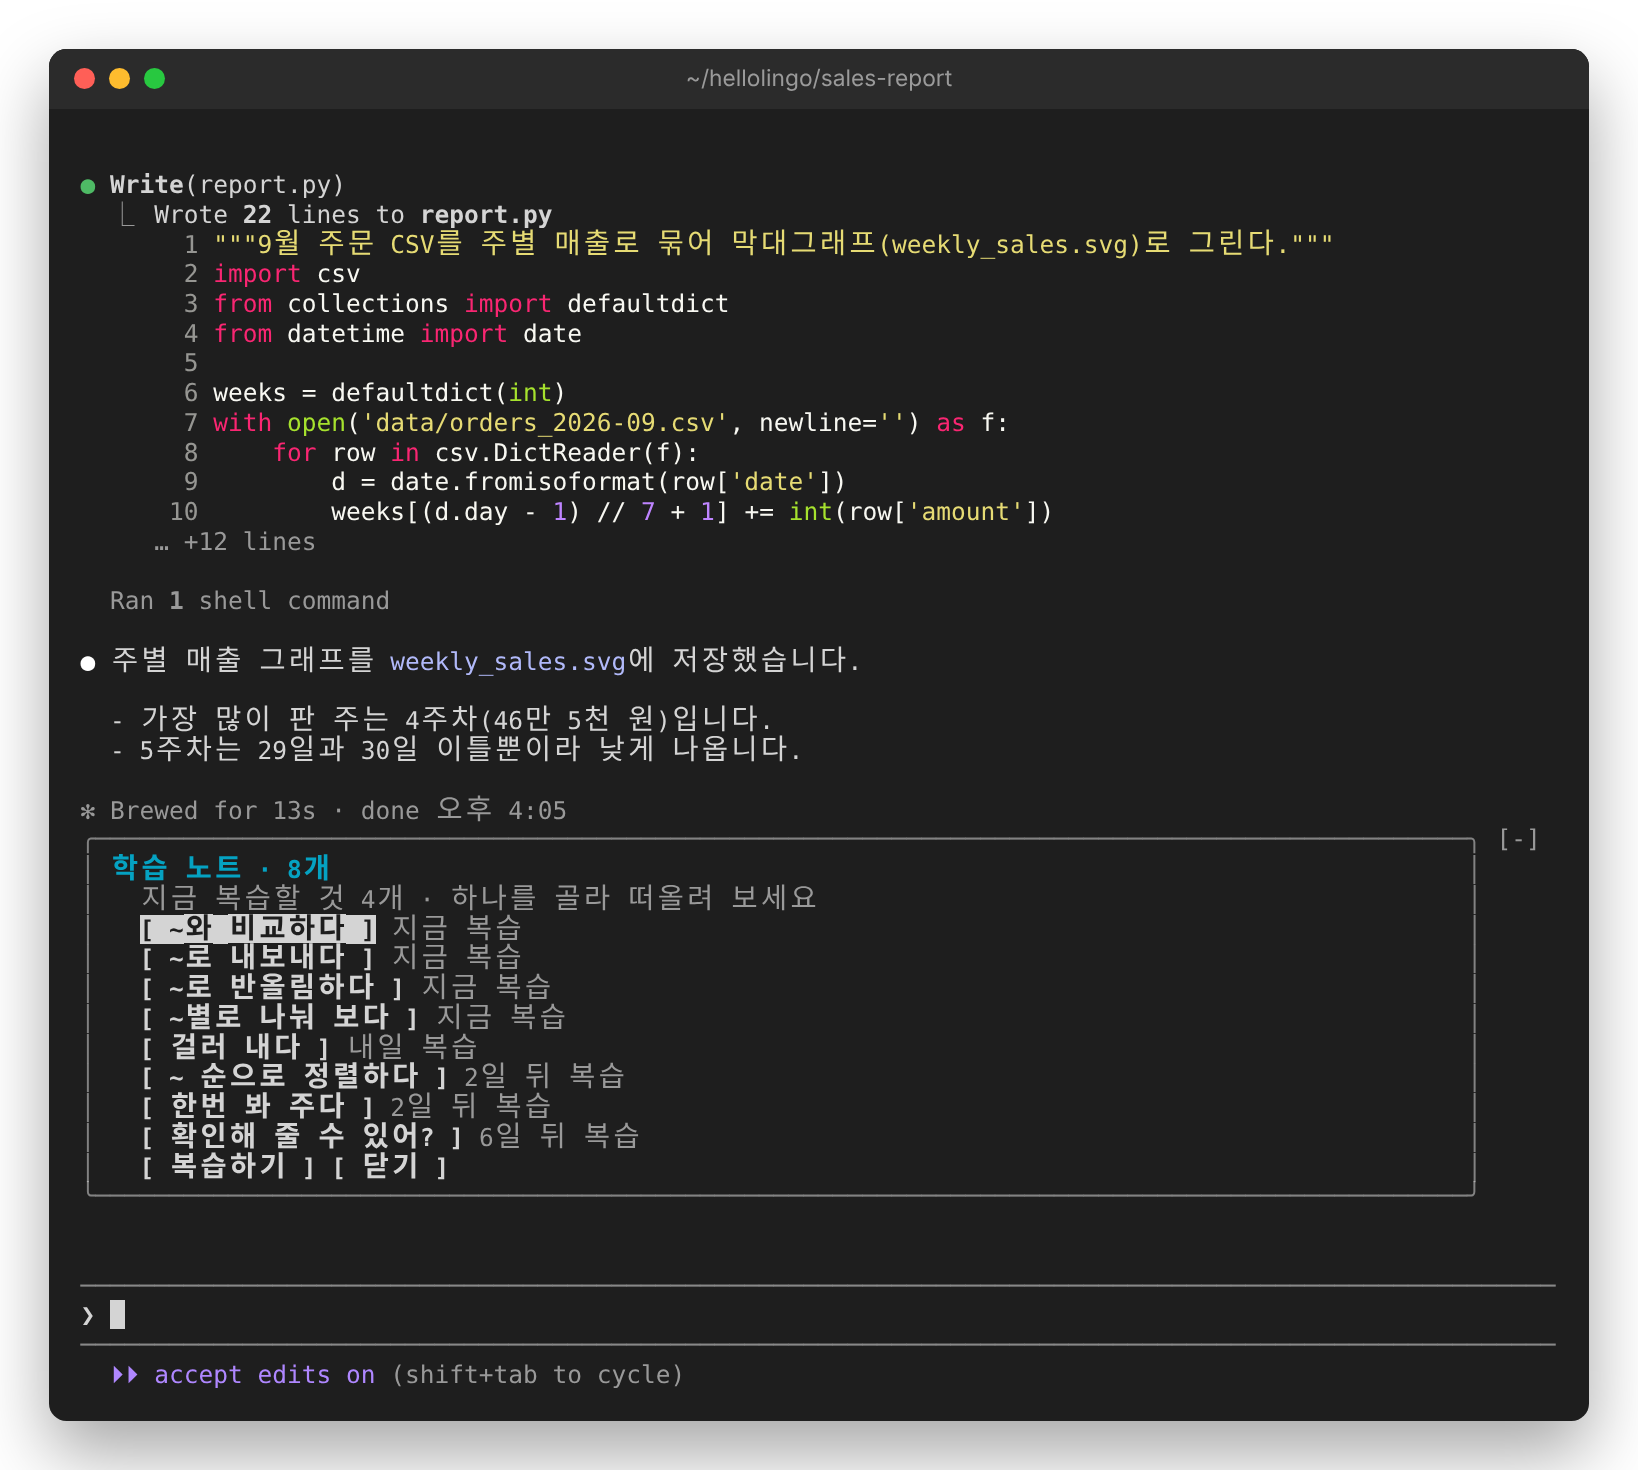
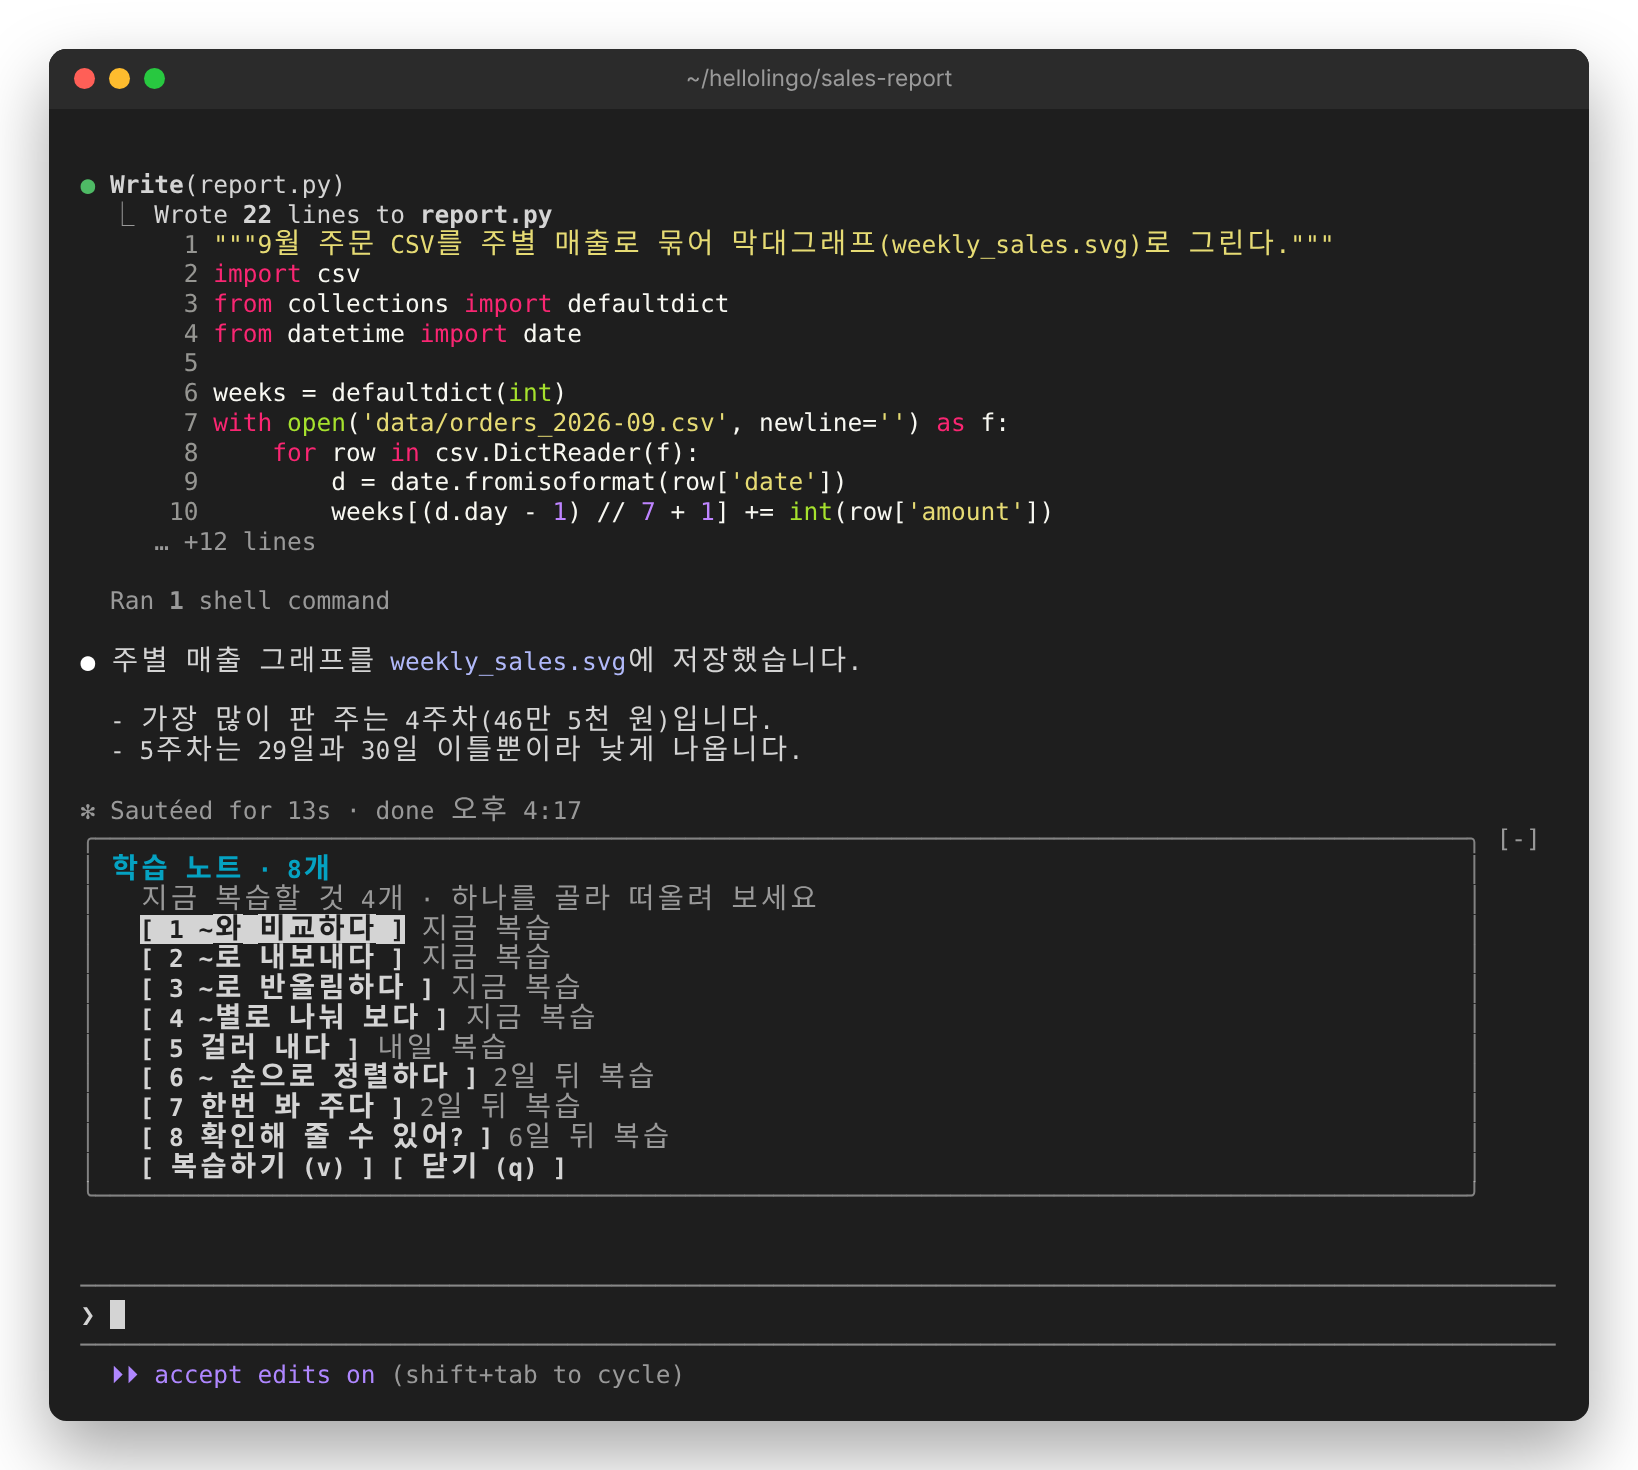
docs: 고친 곳 복습, 단추의 키, 카드 영어 품질을 적고 화면을 다시 찍기

Changed region(s): [[0.0934, 0.6122, 0.4048, 0.7959], [0.2802, 0.5204, 0.3114, 0.551]]

diff --git a/docs/how-it-works.md b/docs/how-it-works.md
@@ -10,6 +10,7 @@
 - 카드를 만들지 못한 프롬프트(모델 호출 실패 등)는 지나갑니다. 이전 카드가 남고 흐린 줄은 사라집니다.
 - 이전 프롬프트의 카드가 새 프롬프트의 카드보다 늦게 오면 버립니다. 버린 카드의 표현은 노트에 모으지 않습니다. 화면에 나온 적이 없기 때문입니다.
 - 새 세션은 빈 영역으로 시작합니다.
+- 단추 글에는 누르는 키를 함께 씁니다(`shownLabel`). 고르는 번호는 앞에(`1 the order`), 그 밖의 키는 뒤에 괄호로(`학습하기 (s)`). 단추에 키를 따로 그리는 기능이 없어서, 쓰지 않으면 설명서를 읽어야만 알 수 있습니다.
 - 카드 위쪽 오른쪽에 단추를 둡니다. `학습하기`(한국어 카드에만), `복습 N`(복습할 표현이 있을 때만), `학습 노트`(노트가 있을 때만). 자리가 모자라면 단추가 다음 줄로 내려갑니다.
 - 공부 칸은 학습자가 단추를 눌렀을 때만 열립니다. 열려 있는 동안에는 카드를 숨기고 공부 칸만 보여 줍니다. 한 번에 볼 것이 하나라야 쉽고, 카드의 영어 문장이 옆에 보이면 혼자 맞추는 문제의 답을 미리 알려 주기 때문입니다.
 - 공부 칸은 새 프롬프트를 보내도, 턴이 끝나도 그대로 둡니다. `닫기`를 눌러야 닫히고, 그러면 가장 최근 카드가 돌아옵니다. 공부하는 동안 보낸 프롬프트의 카드도 그대로 만들고 표현도 모읍니다.
@@ -43,6 +44,7 @@
 
 - 틀린 부분이 있으면 `✗ 틀린 부분`, `✓ 고친 부분`, 쉬운 한국어 이유를 3개까지 보여줍니다. 고칠 곳이 겹치면 좁은 쪽만 둡니다. "run test again"을 고쳤으면, 그 말이 든 문장 전체를 고친 줄은 뺍니다.
 - 틀린 부분이 없으면 더 자연스러운 표현 하나와 예문을 보여주고, 표현을 노트에 모읍니다. 이 카드에는 위에 영어 문장이 없어서 예문을 함께 둡니다.
+- 고친 곳 가운데 맨 위의 하나를 노트에 담습니다(`addFix`). 고친 말이 표현(`en`), 틀린 말이 `wrong`, 까닭이 예문 자리(`example`)에 들어갑니다. 틀린 말이나 고친 말이 60자를 넘으면 문장을 통째로 다시 쓴 것이라 담지 않습니다. 새 고침은 핵심 표현처럼 하루 5개와 밀린 복습 10개를 따릅니다. 이미 담긴 고침과 같은 실수를 또 하면 간격을 첫 칸으로 돌리고 하루 뒤로 당깁니다. 같은 말이 핵심 표현으로 담겨 있으면 그대로 둡니다.
 - 원어민이 그대로 쓸 만한 문장은 고치지 않습니다. "Can"을 "Could"로, "the"를 "a"로 바꾸는 것처럼 다르게 말하는 방법은 틀린 곳이 아니라 더 자연스러운 표현으로 보여줍니다. 문법이 틀렸으면 뜻이 통해도 고칩니다.
 - 모델 지시문을 바꾸면 [tools/eval](../tools/eval/README.md)로 실제 haiku 카드를 다시 셉니다.
 
@@ -80,7 +82,7 @@
 - 만든 학습하기는 카드마다 기억해서(최근 5장), 같은 카드에서 다시 눌러도 부르지 않습니다.
 - 지금 푸는 문제는 앞의 둘입니다. 첫 문제는 배울 점, 도움말, 한국어 조각의 색을 보여 줍니다. 둘째 문제는 셋 다 감춥니다. 문제를 끝내면 정답 문장을 같은 색으로 보여 줍니다.
 - 도움말 한 줄은 모델에게 받지 않고 종류마다 정해 둔 말을 씁니다. 모델이 쓴 도움말은 가끔 거꾸로 말했습니다.
-- 조각 단추는 정답과 다른 순서로 섞습니다. 섞는 순서는 공부 칸 번호와 문장에서 정해져서, 화면을 다시 그려도 바뀌지 않습니다. 단추 글에서는 첫 조각의 대문자와 끝의 문장 부호를 지웁니다(`pieceLabel`). 남은 조각의 키는 늘 왼쪽부터 `1`, `2`, `3`입니다.
+- 조각 단추는 정답과 다른 순서로 섞습니다. 섞는 순서는 공부 칸 번호와 문장에서 정해져서, 화면을 다시 그려도 바뀌지 않습니다. 단추 글에서는 첫 조각의 대문자와 끝의 문장 부호를 지웁니다(`pieceLabel`). 남은 조각의 키는 늘 왼쪽부터 `1`, `2`, `3`이고, 단추 글 앞에 보입니다.
 - 영어 순서대로 다음 조각이 아닌 것을 누르면 그 문제는 틀린 것으로 끝납니다.
 - 푸는 중에도 조각 단추 끝의 `닫기`(`q`)로 그만둘 수 있습니다.
 - 모델이 답한 뒤 공부 칸이 아직 그 학습하기일 때만 배울 점을 노트에 담습니다. 문제가 오기 전에 닫았으면 담지 않습니다. 문제는 지금 풀지 않은 것부터 복습하도록 순서를 바꿔 둡니다(`drillsForReview`).
@@ -89,6 +91,7 @@
 ### 복습
 
 - `복습 N`을 누르면, 복습할 때가 된 표현 하나를 냅니다. 답한 뒤 `다음 복습`을 누르면 다음 표현을 냅니다. 남은 것이 없으면 `닫기`만 남습니다.
+- 고친 곳은 내가 쓴 틀린 말(`✗`)을 보여 주고, 맞는 말을 떠올리게 합니다. 정답에는 고친 말과 까닭이 나옵니다.
 - 핵심 표현은 한국어 뜻을 보고 떠올립니다. 정답은 `정답 보기`(`r`)를 누를 때만 나옵니다. 직접 연 퀴즈라서 시간이 지나도 저절로 나오지 않습니다. `o`는 떠올렸어요, `x`는 못 떠올렸어요입니다.
 - 배울 점은 노트에 남겨 둔 문제 가운데 맨 앞의 것을 조각 맞추기로 냅니다. 색과 배울 점은 감추고, 끝난 뒤에 보여 줍니다. 맞히면 떠올린 것, 틀리면 못 떠올린 것입니다. 낸 문제는 맨 뒤로 보내서 다음에는 다른 문장이 나옵니다.
 - 처음 모은 표현은 하루 뒤에 복습할 때가 됩니다. 떠올리면 3일, 7일, 14일, 30일 뒤로 늘어납니다. 못 떠올리면 다시 하루 뒤부터입니다.
@@ -184,7 +187,7 @@ claude plugin test .
 - `tools/check.mjs`는 개인 정보, 문서 링크, 그림 크기, 매니페스트, 학습자 글의 문법 용어, 커밋 메시지를 봅니다.
 - `claude plugin test`는 `tests/` 아래의 `*.test.tsx`를 모두 돌립니다. 모델 호출에 가짜 답을 돌려주므로 API를 부르지 않고, 로그인도 필요 없습니다.
 - 타입 검사에는 `.claude-plugin/types/`가 필요합니다. Claude Code가 이 폴더를 mod로 한 번 불러오면 만들어 주고, `.gitignore`에 들어 있어서 커밋되지 않습니다. 그 뒤에 `npx --yes -p typescript@5.6.3 tsc -p tsconfig.json`을 실행합니다.
-- 모델 지시문(`hooks/prompts.ts`)이나 카드 파서(`hooks/cards.ts`)를 바꾸면, [tools/eval](../tools/eval/README.md)로 바꾸기 전과 후의 실제 haiku 카드를 셉니다. 학습하기 지시문이나 문제를 거르는 코드(`hooks/lessons.ts`)를 바꾸면 `tools/eval/lessons.mjs`로 셉니다. 테스트는 모델 답을 흉내만 내서, 지시문이 실제로 듣는지는 이것으로만 알 수 있습니다. 로그인이 필요합니다.
+- 모델 지시문(`hooks/prompts.ts`)이나 카드 파서(`hooks/cards.ts`)를 바꾸면, [tools/eval](../tools/eval/README.md)로 바꾸기 전과 후의 실제 haiku 카드를 셉니다. 학습하기 지시문이나 문제를 거르는 코드(`hooks/lessons.ts`)를 바꾸면 `tools/eval/lessons.mjs`로 셉니다. 카드 영어가 자연스럽고 뜻이 같은지는 `run.mjs --judge`로 봅니다. 테스트는 모델 답을 흉내만 내서, 지시문이 실제로 듣는지는 이것으로만 알 수 있습니다. 로그인이 필요합니다.
 
 ### 지키는 것
 

diff --git a/docs/guide/06-english.md b/docs/guide/06-english.md
@@ -26,6 +26,12 @@ Please fix it and run test again
 
 ![카드 제목은 "이렇게 고치면 좋아요"입니다. "run test again"을 "run the tests again"으로 고쳤고, 이유가 한국어로 적혀 있습니다.](images/english-2-fix.png)
 
+고친 곳 가운데 맨 위의 하나는 노트에 모입니다. 내가 실제로 틀린 곳이라, 다시 떠올려 볼 만한 것이기 때문입니다.
+
+- 문장 전체를 고쳐 쓴 긴 고침(60자 넘게)은 모으지 않습니다. 떠올려 볼 크기가 아니기 때문입니다.
+- 새 고침도 하루 5개, 밀린 복습 10개의 한도를 따릅니다.
+- 이미 모은 고침과 같은 실수를 또 하면, 그 고침을 처음부터 다시 봅니다.
+
 ## 틀린 곳이 없으면
 
 도윤은 고친 내용을 동료에게 검토받으려고, 설명 글(PR 설명)을 부탁합니다.
@@ -37,6 +43,18 @@ Can you write the PR description?
 틀린 곳이 없으면 더 자연스러운 말을 하나 알려 줍니다. 이 표현도 노트에 모입니다.
 
 ![카드 제목은 "잘 썼어요! 이렇게도 말해요"입니다. "Could you draft the PR description?"과 그 뜻, 예문이 나와 있습니다.](images/english-3-natural.png)
+
+## 고친 곳 다시 떠올리기
+
+도윤은 지난주에 "Explain me this error"라고 썼다가 고침을 받았습니다. 그 고침이 복습할 때가 되어, 카드 위쪽에 `복습 1`이 있습니다. 눌러 봅니다.
+
+내가 썼던 틀린 문장이 나옵니다. 어떻게 고치면 맞는지 머릿속으로 떠올립니다.
+
+![복습 칸에 "복습 · 3일 전에 고친 표현", 빨간 "✗ Explain me this error", "맞게 고쳐서 떠올려 보세요"와 "정답 보기 (r)", "닫기 (q)" 단추가 있습니다.](images/english-4-review.png)
+
+`정답 보기`를 누르면 고친 말과 까닭이 나옵니다. 떠올렸는지에 따라 `떠올렸어요`나 `못 떠올렸어요`를 누릅니다.
+
+![복습 칸에 초록 "✓ Explain this error to me"와 "explain 바로 뒤에 사람을 쓰지 않아요. to me를 뒤로 보내요.", 그리고 "떠올렸어요 (o)", "못 떠올렸어요 (x)", "닫기 (q)" 단추가 있습니다.](images/english-5-answer.png)
 
 Claude는 영어로 쓴 부탁에도 평소처럼 일합니다. 카드는 Claude의 답을 바꾸지 않습니다.
 

diff --git a/docs/guide/03-study.md b/docs/guide/03-study.md
@@ -14,7 +14,7 @@
 
 같은 틀의 새 문장이 나옵니다. 영어 조각을 영어 순서대로 누릅니다.
 
-![입력창 위 칸 맨 위에 "학습하기 · 1/2"와 "~하는 버튼 → a button to ~"가 있습니다. 그 아래 "주문 취소하는 버튼 추가해줘"의 조각이 색으로 칠해져 있고, 버튼 세 개 "the order", "add a button", "to cancel"이 섞여 있고, 끝에 "닫기"가 있습니다.](images/study-1-first.png)
+![입력창 위 칸 맨 위에 "학습하기 · 1/2"와 "~하는 버튼 → a button to ~"가 있습니다. 그 아래 "주문 취소하는 버튼 추가해줘"의 조각이 색으로 칠해져 있고, 버튼 세 개 "1 the order", "2 add a button", "3 to cancel"이 섞여 있고, 끝에 "닫기 (q)"가 있습니다.](images/study-1-first.png)
 
 - 맨 위 줄이 배울 점입니다. 그 아래 흐린 줄이 한 줄 도움말입니다.
 - 한국어 조각마다 색이 있습니다. 같은 색의 영어 조각이 그 뜻입니다.
@@ -45,10 +45,12 @@
 
 키보드로 하려면 먼저 키가 카드로 가게 합니다. 카드를 마우스로 한 번 누르거나, `ctrl+x`를 누른 다음 `tab`을 누릅니다.
 
+단추마다 그 키가 함께 보입니다. 조각 단추는 번호가 앞에(`1 the order`), 다른 단추는 키가 뒤에(`닫기 (q)`) 붙습니다.
+
 | 키 | 하는 일 |
 | --- | --- |
 | `s` | 학습하기 |
-| `1`, `2`, `3` | 조각 고르기. 남은 조각을 왼쪽부터 셉니다. |
+| `1`, `2`, `3` | 조각 고르기. 단추 앞에 보이는 번호입니다. |
 | `n` | 다음 문제 |
 | `q` | 닫기 |
 

diff --git a/docs/guide/05-recall.md b/docs/guide/05-recall.md
@@ -34,7 +34,7 @@
 
 어제 [학습하기](03-study.md)에서 연습한 배울 점도 복습에 나옵니다. 이번에는 처음 보는 문장으로, 색 없이 조각을 맞춥니다.
 
-![복습 칸에 "설정 저장하는 버튼 추가해줘"와 조각 단추 "add a button", "the settings", "to save"와 "닫기"가 있습니다.](images/recall-4-pattern.png)
+![복습 칸에 "설정 저장하는 버튼 추가해줘"와 번호가 붙은 조각 단추 "add a button", "the settings", "to save"와 "닫기 (q)"가 있습니다.](images/recall-4-pattern.png)
 
 다 맞추면 배울 점이 다시 보이고, 다음에 언제 볼지 나옵니다. 조각을 맞췄으면 떠올린 것입니다. 따로 `떠올렸어요`를 누르지 않습니다.
 
@@ -42,7 +42,7 @@
 
 ## 키로 하기
 
-먼저 키가 카드로 가게 합니다. 카드를 마우스로 한 번 누르거나, `ctrl+x`를 누른 다음 `tab`을 누릅니다.
+단추마다 그 키가 함께 보입니다. 먼저 키가 카드로 가게 합니다. 카드를 마우스로 한 번 누르거나, `ctrl+x`를 누른 다음 `tab`을 누릅니다.
 
 | 키 | 하는 일 |
 | --- | --- |
@@ -50,7 +50,7 @@
 | `r` | 정답 보기 |
 | `o` | 떠올렸어요 |
 | `x` | 못 떠올렸어요 |
-| `1`, `2`, `3` | 조각 고르기. 남은 조각을 왼쪽부터 셉니다. |
+| `1`, `2`, `3` | 조각 고르기. 단추 앞에 보이는 번호입니다. |
 | `n` | 다음 복습 |
 | `q` | 닫기 |
 

diff --git a/docs/guide/07-notes.md b/docs/guide/07-notes.md
@@ -22,7 +22,7 @@
 
 - 영어는 가려 두었습니다. 무엇을 누르든 떠올리기가 됩니다.
 - 복습할 때가 된 표현이 맨 위에 있습니다. 그다음은 아직 덜 익힌 표현입니다. 위에서부터 고르면 지금 필요한 표현을 고르게 됩니다.
-- 숫자 키 `1`부터 `8`로도 고릅니다. 위에서부터 셉니다.
+- 숫자 키 `1`부터 `8`로도 고릅니다. 단추 앞에 보이는 번호입니다.
 
 복습할 때가 아닌 표현도 골라서 떠올릴 수 있습니다. 이것은 연습입니다.
 

diff --git a/docs/guide/02-see.md b/docs/guide/02-see.md
@@ -29,7 +29,7 @@
 
 ## 카드 위쪽의 단추
 
-카드 위쪽 오른쪽에 단추가 있습니다. 누를 때만 공부합니다. 일하는 흐름을 끊지 않으려는 것입니다.
+카드 위쪽 오른쪽에 단추가 있습니다. 누를 때만 공부합니다. 일하는 흐름을 끊지 않으려는 것입니다. 단추의 괄호 안 글자는 그 단추를 누르는 키입니다.
 
 | 단추 | 하는 일 | 나오는 장 |
 | --- | --- | --- |
